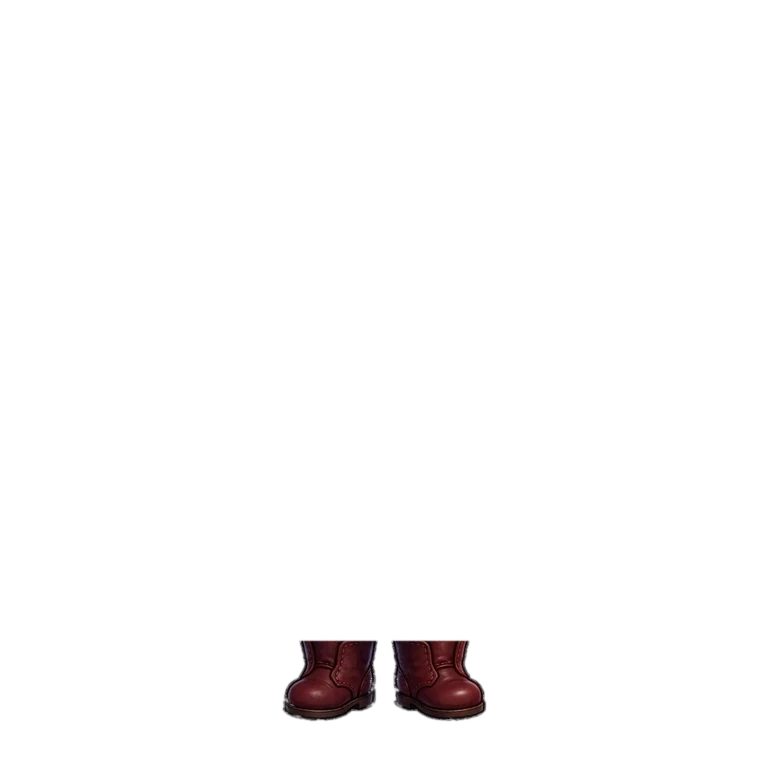
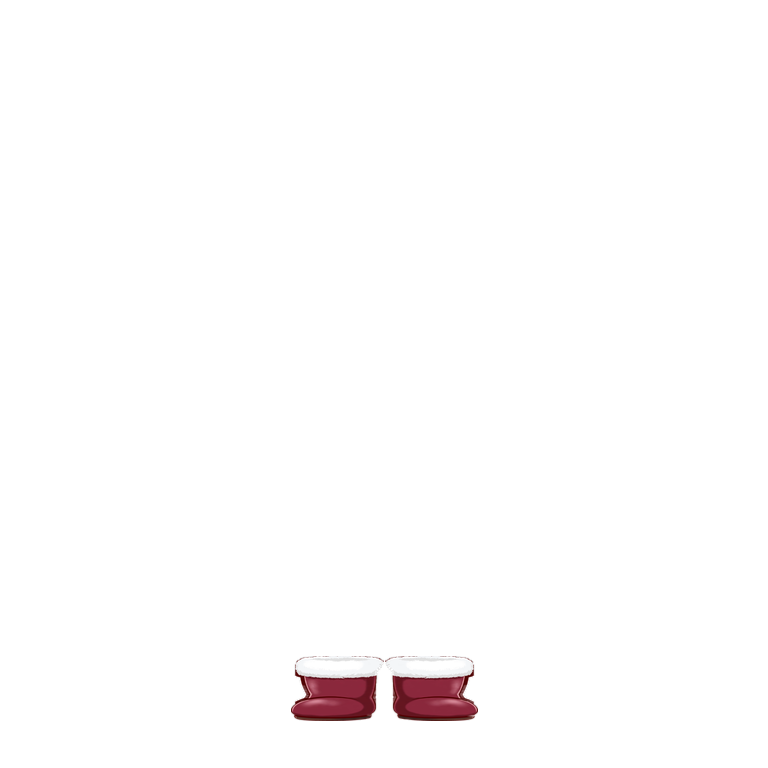
Pi: thay 3 đôi Muse vẽ riêng — giày vải đen Tết, ủng mèo đen, bốt đỏ rượu (viền lông) — ôm đúng bàn chân
npm test: 257 đạt. Vị trí chỉnh tay cũ của bốt đỏ rượu sẽ xoá sau khi lên prod.

Claude-Session: https://claude.ai/code/session_0163KSZYdzHDud2uG42gs7mp

Changed region(s): [[0.3438, 0.8125, 0.6562, 0.9375]]

diff --git a/scripts/pi/build.py b/scripts/pi/build.py
@@ -96,7 +96,7 @@ for side in ("trai", "phai"):
 # 24/10 soát từng món: vệt lá cũ sót xa gốc lá (vùng rộng; KHÔNG áp chung vì vòng hoa có lá thật)
 # 24/10 tối (chủ dự án chốt): món Muse vẽ RIÊNG trên nền trong suốt → chỉ đặt đè lên, KHÔNG chạy bộ cắt lá / vụn (cắt nhầm mũ xanh lá)
 STANDALONE = {  # 25/10: món vẽ riêng đã duyệt ghép
-              "giangsinh-nam-dau01", "giangsinh-nam-dau02", "giangsinh-nam-dau03", "giangsinh-nam-dau04", "giangsinh-nam-dau05", "giangsinh-nam-pk03", "giangsinh-nam-pk12", "giangsinh-nu-dau01", "giangsinh-nu-dau02", "giangsinh-nu-dau04", "giangsinh-nu-pk03", "halloween-nam-dau01", "halloween-nam-dau02", "halloween-nam-dau05", "halloween-nam-pk04", "halloween-nu-dau01", "muadong-nam-dau01", "muadong-nam-dau02", "muadong-nam-dau03", "muadong-nam-dau05", "muadong-nam-pk01", "muadong-nam-pk02", "muadong-nam-pk11", "muadong-nu-dau01", "muadong-nu-dau03", "muadong-nu-dau04", "muadong-nu-pk01", "muadong-nu-pk02", "muahe-nam-dau01", "muahe-nam-dau02", "muahe-nam-dau03", "muahe-nam-dau04", "muahe-nam-pk12", "muahe-nu-dau01", "muahe-nu-dau02", "muahe-nu-dau04", "tet-nam-dau01", "tet-nam-dau02", "tet-nam-dau03", "tet-nam-dau04", "tet-nam-pk03", "tet-nam-pk11", "tet-nu-dau01", "tet-nu-dau02", "tet-nu-dau03", "tet-nu-dau05", "tet-nu-pk04", "tet-nu-pk11", "trungthu-nam-dau01", "trungthu-nam-dau02", "trungthu-nam-dau03", "trungthu-nam-dau04", "trungthu-nam-dau05", "trungthu-nam-pk09", "trungthu-nam-pk10", "trungthu-nam-pk11", "trungthu-nu-dau02", "trungthu-nu-dau05", "trungthu-nu-pk10", "giangsinh-nam-giay01", "muahe-nu-giay02", "giangsinh-nam-giay02", "giangsinh-nam-giay03", "giangsinh-nu-giay01", "giangsinh-nu-giay02", "giangsinh-nu-giay03", "halloween-nam-giay02", "halloween-nam-giay03", "halloween-nu-giay01", "halloween-nu-giay03", "muadong-nam-giay01", "muadong-nam-giay02", "muadong-nam-giay03", "muadong-nu-giay01", "muadong-nu-giay03", "muahe-nam-giay01", "muahe-nam-giay02", "muahe-nu-giay01", "muahe-nu-giay03", "tet-nam-giay01", "tet-nam-giay03", "tet-nu-giay01", "tet-nu-giay02", "tet-nu-giay03", "trungthu-nam-giay01", "trungthu-nam-giay02", "trungthu-nam-giay03", "trungthu-nu-giay01", "trungthu-nu-giay02", "trungthu-nu-giay03", "muahe-nam-giay03", "halloween-nam-giay01"}
+              "giangsinh-nam-dau01", "giangsinh-nam-dau02", "giangsinh-nam-dau03", "giangsinh-nam-dau04", "giangsinh-nam-dau05", "giangsinh-nam-pk03", "giangsinh-nam-pk12", "giangsinh-nu-dau01", "giangsinh-nu-dau02", "giangsinh-nu-dau04", "giangsinh-nu-pk03", "halloween-nam-dau01", "halloween-nam-dau02", "halloween-nam-dau05", "halloween-nam-pk04", "halloween-nu-dau01", "muadong-nam-dau01", "muadong-nam-dau02", "muadong-nam-dau03", "muadong-nam-dau05", "muadong-nam-pk01", "muadong-nam-pk02", "muadong-nam-pk11", "muadong-nu-dau01", "muadong-nu-dau03", "muadong-nu-dau04", "muadong-nu-pk01", "muadong-nu-pk02", "muahe-nam-dau01", "muahe-nam-dau02", "muahe-nam-dau03", "muahe-nam-dau04", "muahe-nam-pk12", "muahe-nu-dau01", "muahe-nu-dau02", "muahe-nu-dau04", "tet-nam-dau01", "tet-nam-dau02", "tet-nam-dau03", "tet-nam-dau04", "tet-nam-pk03", "tet-nam-pk11", "tet-nu-dau01", "tet-nu-dau02", "tet-nu-dau03", "tet-nu-dau05", "tet-nu-pk04", "tet-nu-pk11", "trungthu-nam-dau01", "trungthu-nam-dau02", "trungthu-nam-dau03", "trungthu-nam-dau04", "trungthu-nam-dau05", "trungthu-nam-pk09", "trungthu-nam-pk10", "trungthu-nam-pk11", "trungthu-nu-dau02", "trungthu-nu-dau05", "trungthu-nu-pk10", "giangsinh-nam-giay01", "muahe-nu-giay02", "giangsinh-nam-giay02", "giangsinh-nam-giay03", "giangsinh-nu-giay01", "giangsinh-nu-giay02", "giangsinh-nu-giay03", "halloween-nam-giay02", "halloween-nam-giay03", "halloween-nu-giay01", "halloween-nu-giay03", "muadong-nam-giay01", "muadong-nam-giay02", "muadong-nam-giay03", "muadong-nu-giay01", "muadong-nu-giay03", "muahe-nam-giay01", "muahe-nam-giay02", "muahe-nu-giay01", "muahe-nu-giay03", "tet-nam-giay01", "tet-nam-giay03", "tet-nu-giay01", "tet-nu-giay02", "tet-nu-giay03", "trungthu-nam-giay01", "trungthu-nam-giay02", "trungthu-nam-giay03", "trungthu-nu-giay01", "trungthu-nu-giay02", "trungthu-nu-giay03", "muahe-nam-giay03", "halloween-nam-giay01", "tet-nam-giay02", "halloween-nu-giay02", "muadong-nu-giay02"}
 SHOE_SCALE = {}  # 25/10: guốc tet-nu-giay02 vẽ lại đúng cỡ
 LEAF_WIDE = {"giangsinh-nam-dau05", "trungthu-nam-dau03", "muahe-nam-dau05", "trungthu-nu-dau02"}
 ARM_HIDE = {"giangsinh-nam-pk07": "trai", "muadong-nam-pk08": "trai", "muadong-nu-pk08": "trai", "muahe-nam-pk05": "trai",
